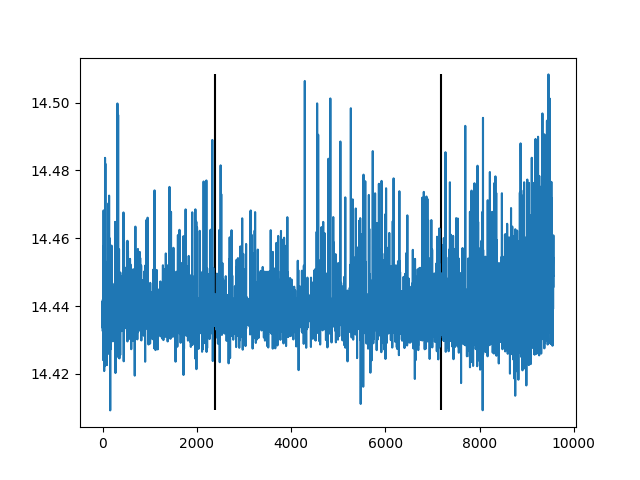
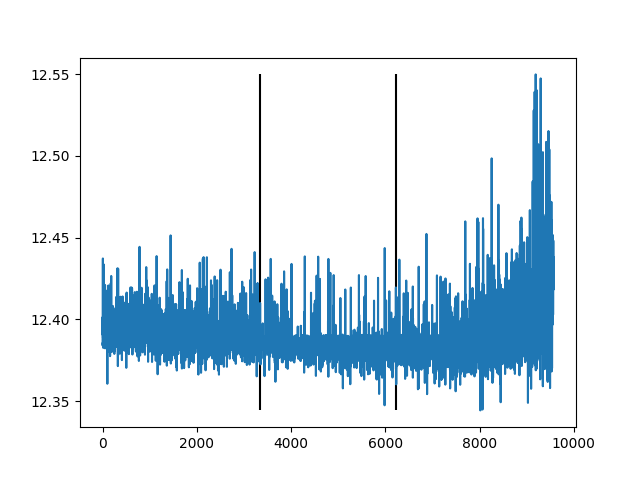
test threshold

diff --git a/experiments/targetShift.py b/experiments/targetShift.py
@@ -29,7 +29,7 @@ for dataset in datasets:
         X = X.sort_values("target").reset_index(drop=True)
 
         # Determine fraction to use in test (will be x2 the split point)
-        split_point = int(X.shape[0] * 0.25)
+        split_point = int(X.shape[0] * 0.35)
 
         # Select smaller and bigger than splitting point
         train = X.iloc[split_point : X.shape[0] - split_point]
